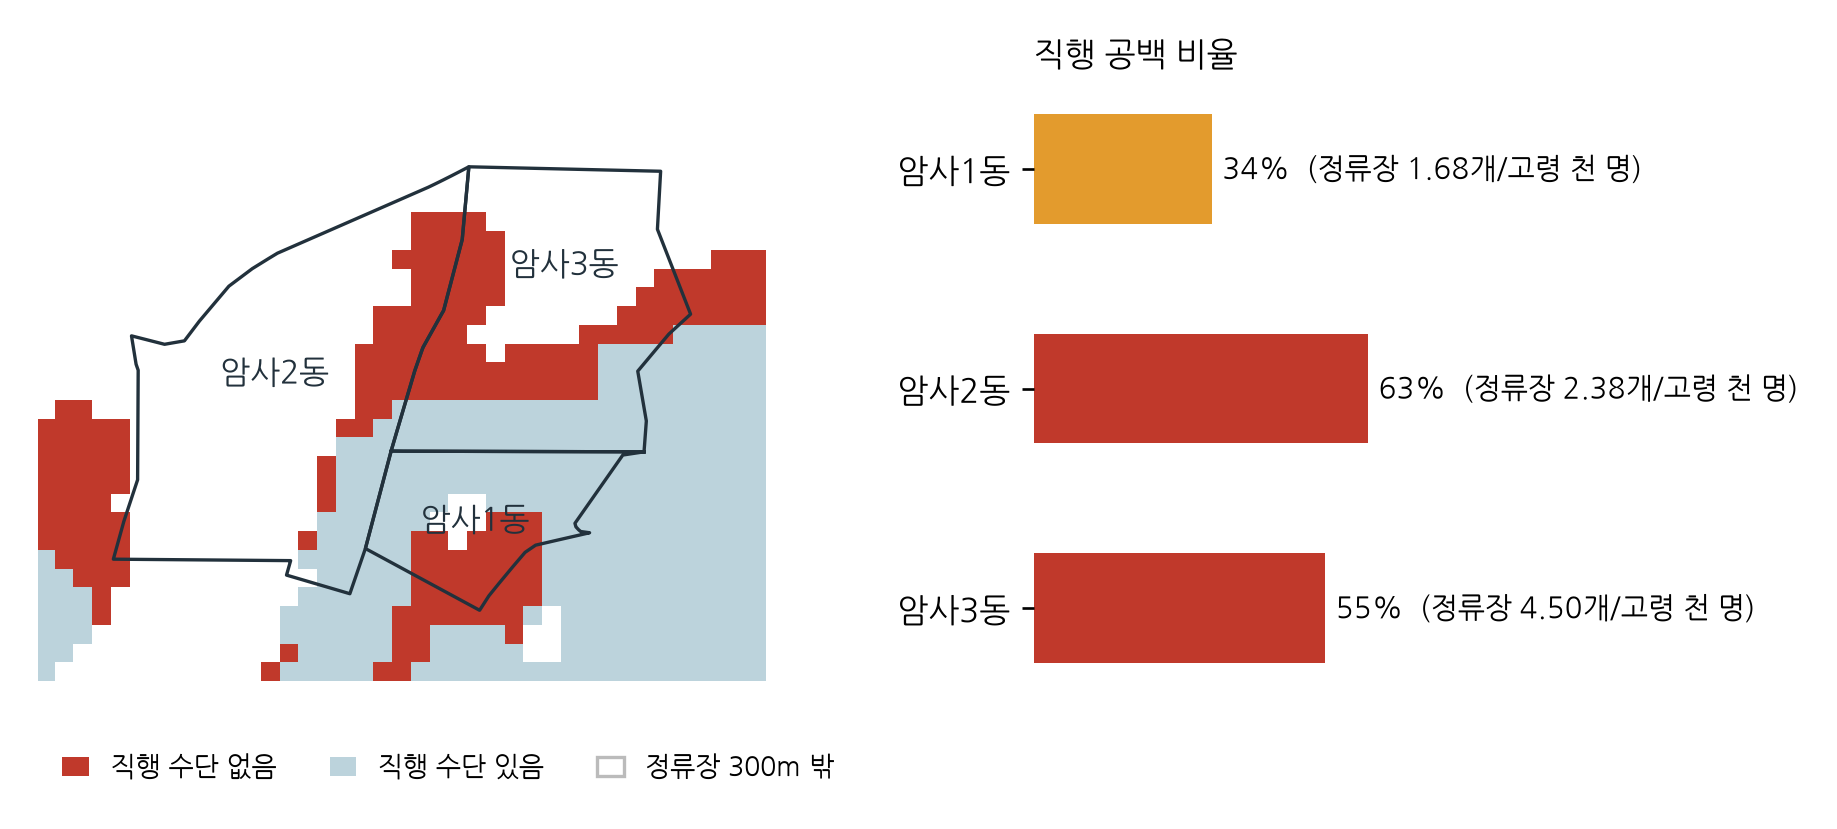
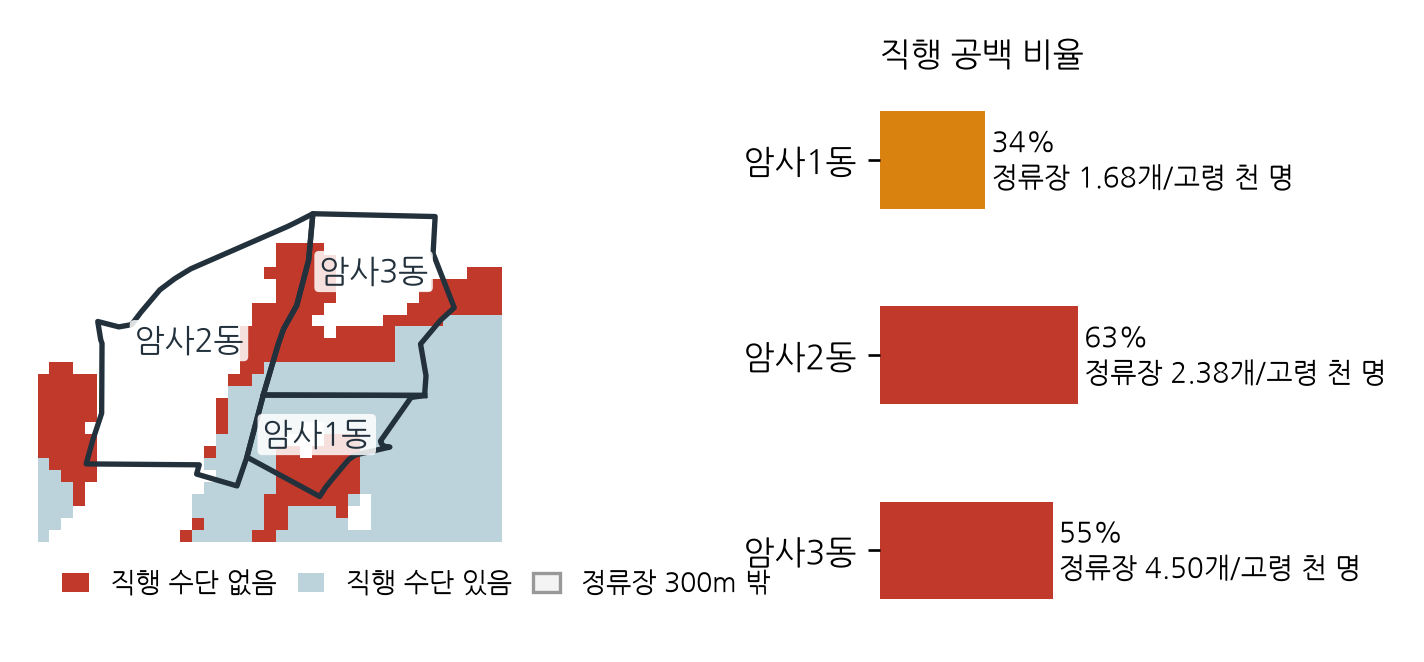
Add robustness metrics and larger figure labels
- hospital_access.py: stop spacing, core-area estimates, S-only overlap check
- access_figures.py: larger text, labels for top 10 core areas, CO2 subscript
- README: summary rows, mark the first-round Amsa case as reference

Claude-Session: https://claude.ai/code/session_016QNWvnpHx37YTs3VkJgVLz

diff --git a/access_figures.py b/access_figures.py
@@ -11,7 +11,7 @@ from pyproj import Transformer
 from figures import setup, save, RES
 from analyze import boundaries
 
-GAP, OK, SUP, LINE, INK = '#c0392b', '#bcd3dc', '#e39b2d', '#8a9aa6', '#22313c'
+GAP, OK, SUP, LINE, INK = '#c0392b', '#bcd3dc', '#d9820f', '#8a9aa6', '#22313c'
 
 
 def outline(ax, geom, **kw):
@@ -22,46 +22,50 @@ def outline(ax, geom, **kw):
 
 
 def seoul_map(d, cells, parsed, polys):
-    fig, ax = plt.subplots(figsize=(7.4, 5.9))
+    fig, ax = plt.subplots(figsize=(5.3, 4.4))
     sv = cells[cells.served]
     ok, gap = sv[sv.near_onestep_base], sv[~sv.near_onestep_base]
-    ax.scatter(ok.x_m / 1000, ok.y_m / 1000, s=.55, c=OK, marker='s', linewidths=0)
-    ax.scatter(gap.x_m / 1000, gap.y_m / 1000, s=.55, c=GAP, marker='s', linewidths=0)
+    ax.scatter(ok.x_m / 1000, ok.y_m / 1000, s=.32, c=OK, marker='s', linewidths=0)
+    ax.scatter(gap.x_m / 1000, gap.y_m / 1000, s=.32, c=GAP, marker='s', linewidths=0)
     for i, p in enumerate(polys):
         if d.gap_core.iloc[i]:
-            outline(ax, p, c='#5a1209', lw=1.1)
+            outline(ax, p, c='#5a1209', lw=1.2)
         elif d.core_candidate.iloc[i]:
-            outline(ax, p, c=SUP, lw=1.3)
+            outline(ax, p, c=SUP, lw=1.7)
     tr = Transformer.from_crs(4326, 5179, always_xy=True).transform
     for f in parsed['SIGUNGU']['features']:
         outline(ax, transform(tr, shape(f['geometry'])), c=LINE, lw=.45)
-    top = d[d.gap_core].sort_values('est_elderly_in_gap', ascending=False).head(6)
-    off = {'평창동': (-3, 3), '수궁동': (-4, -2.5), '망원1동': (0.5, 5.5), '화곡본동': (-3.5, -6), '내곡동': (3, -3), '인헌동': (2, -3.5)}
+    top = d[d.gap_core].sort_values('est_elderly_in_gap', ascending=False).head(10)
+    off = {'평창동': (-2, 4), '수궁동': (-4.5, -3), '망원1동': (-1, 5.5), '화곡본동': (-5, 4.5), '내곡동': (3, -3.5), '인헌동': (-1.5, -5.5), '문정2동': (4, -3.5), '위례동': (5, -1.5), '개봉3동': (-4, -5.5), '시흥4동': (1.5, -6)}
     for _, r in top.iterrows():
         c = polys[int(r.name)].representative_point(); dx, dy = off.get(r.dong, (3, 2))
-        ax.annotate(f'{r.gu} {r.dong}', (c.x / 1000, c.y / 1000), xytext=(c.x / 1000 + dx, c.y / 1000 + dy), fontsize=8, color='#7d1f15',
+        ax.annotate(r.dong, (c.x / 1000, c.y / 1000), xytext=(c.x / 1000 + dx, c.y / 1000 + dy), fontsize=8.5, color='#7d1f15', weight='bold',
                     ha='center', arrowprops={'arrowstyle': '-', 'color': '#a8584e', 'lw': .6})
     ax.autoscale(); ax.set_aspect('equal'); ax.axis('off')
     ax.legend(handles=[Patch(facecolor=GAP, label='가까운 종합병원으로 가는 직행 수단이 없는 지역'),
                        Patch(facecolor=OK, label='직행 수단이 있는 지역'),
                        Line2D([], [], color='#5a1209', lw=1.2, label=f'의료 직행 사각지대 핵심 {int(d.gap_core.sum())}개 동'),
                        Line2D([], [], color=SUP, lw=1.4, label=f'정류장 공급량 기준 후보 {int(d.core_candidate.sum())}개 동')],
-              loc='upper left', frameon=False, fontsize=8.6)
+              loc='upper left', bbox_to_anchor=(-0.02, 1.04), frameon=False, fontsize=8.4)
     fig.tight_layout(); save(fig, '07_access_gap_map.png')
 
 
 def supply_vs_access(d):
-    fig, ax = plt.subplots(figsize=(7.4, 3.5))
+    fig, ax = plt.subplots(figsize=(5.6, 2.9))
     o = ~(d.gap_core | d.core_candidate)
     ax.scatter(d.stops_per_1000[o], d.gap_share[o] * 100, s=12, c='#aab6c0', alpha=.6, linewidths=0, label='그 외 행정동')
     ax.scatter(d.stops_per_1000[d.core_candidate], d.gap_share[d.core_candidate] * 100, s=40, c=SUP, edgecolors='white', linewidths=.6,
                label=f'정류장 공급량 기준 후보({int(d.core_candidate.sum())})', zorder=3)
     ax.scatter(d.stops_per_1000[d.gap_core], d.gap_share[d.gap_core] * 100, s=44, c=GAP, edgecolors='white', linewidths=.6,
                label=f'의료 직행 사각지대 핵심({int(d.gap_core.sum())})', zorder=4)
-    ax.axhline(50, c='#5d6d7a', ls='--', lw=.9)
+    ax.axhline(50, c='#5d6d7a', ls='--', lw=.9); ax.text(0.68, 51.5, '직행 공백 50%', fontsize=8.5, color='#4d5b66')
+    for dn, dx, dy in [('암사1동', 14, -16), ('암사2동', -40, 6)]:
+        rr = d[(d.gu == '강동구') & (d.dong == dn)].iloc[0]
+        ax.annotate(dn, (rr.stops_per_1000, rr.gap_share * 100), xytext=(dx, dy), textcoords='offset points', fontsize=8.5, color=INK, arrowprops={'arrowstyle': '-', 'lw': .6, 'color': '#777'})
     ax.set_xscale('log'); ax.set_xticks([1, 2, 4, 8, 16, 32, 64], labels=['1', '2', '4', '8', '16', '32', '64'])
     ax.set(xlabel='고령인구 1천 명당 버스정류장 수 (개, 로그 눈금)', ylabel='직행 공백 비율 (%)', ylim=(-3, 103))
-    ax.grid(alpha=.13); ax.legend(loc='upper right', frameon=False, fontsize=8.5)
+    ax.grid(alpha=.13); ax.legend(loc='center right', bbox_to_anchor=(1.0, 0.36), frameon=False, fontsize=8.3); ax.tick_params(labelsize=9)
+    ax.xaxis.label.set_size(9.5); ax.yaxis.label.set_size(9.5)
     fig.tight_layout(); save(fig, '08_supply_vs_access.png')
 
 
@@ -72,37 +76,38 @@ def amsa_case(d, cells, polys):
     area = unary_union([polys[i] for i in idx])
     x0, y0, x1, y1 = area.buffer(400).bounds
     c = cells[(cells.x_m.between(x0, x1)) & (cells.y_m.between(y0, y1)) & cells.served]
-    fig, (ax, bx) = plt.subplots(1, 2, figsize=(7.6, 3.3), gridspec_kw={'width_ratios': [1.15, 1]})
+    fig, (ax, bx) = plt.subplots(1, 2, figsize=(5.8, 2.8), gridspec_kw={'width_ratios': [1.1, 1]})
     for sub, col in [(c[c.near_onestep_base], OK), (c[~c.near_onestep_base], GAP)]:
         for x, y in zip(sub.x_m, sub.y_m):
             ax.add_patch(Rectangle(((x - 50) / 1000, (y - 50) / 1000), .1, .1, color=col, lw=0))
     for i, n in zip(idx, names):
-        outline(ax, polys[i], c=INK, lw=1)
-        p = polys[i].representative_point(); ax.text(p.x / 1000, p.y / 1000, n, ha='center', fontsize=9.5, weight='bold', color=INK)
+        outline(ax, polys[i], c=INK, lw=1.6)
+        p = polys[i].representative_point(); ax.text(p.x / 1000, p.y / 1000, n, ha='center', fontsize=9.5, weight='bold', color=INK, bbox={'boxstyle': 'round,pad=0.15', 'fc': 'white', 'ec': 'none', 'alpha': .85})
     ax.set_xlim(x0 / 1000, x1 / 1000); ax.set_ylim(y0 / 1000, y1 / 1000); ax.set_aspect('equal'); ax.axis('off')
     ax.legend(handles=[Patch(facecolor=GAP, label='직행 수단 없음'), Patch(facecolor=OK, label='직행 수단 있음'),
-                       Patch(facecolor='white', edgecolor='#bbbbbb', label='정류장 300m 밖')], loc='lower left',
-              bbox_to_anchor=(0, -0.2), ncol=3, frameon=False, fontsize=8, handlelength=1)
+                       Patch(facecolor='#f4f4f4', edgecolor='#999999', label='정류장 300m 밖')], loc='lower left',
+              bbox_to_anchor=(0, -0.2), ncol=3, frameon=False, fontsize=8, handlelength=1, columnspacing=.8)
     vals = [d.gap_share.iloc[i] * 100 for i in idx]; sup = [d.stops_per_1000.iloc[i] for i in idx]
     bars = bx.barh(names[::-1], vals[::-1], color=[SUP, GAP, GAP][::-1], height=.5)
     for b, v, s in zip(bars, vals[::-1], sup[::-1]):
-        bx.text(b.get_width() + 2, b.get_y() + b.get_height() / 2, f'{v:.0f}%  (정류장 {s:.2f}개/고령 천 명)', va='center', fontsize=8.6)
-    bx.set_xlim(0, 120); bx.set_xticks([]); bx.spines['left'].set_visible(False); bx.spines['bottom'].set_visible(False)
+        bx.text(b.get_width() + 2, b.get_y() + b.get_height() / 2, f'{v:.0f}%\n정류장 {s:.2f}개/고령 천 명', va='center', fontsize=8.5)
+    bx.set_xlim(0, 135); bx.set_xticks([]); bx.spines['left'].set_visible(False); bx.spines['bottom'].set_visible(False)
     bx.set_title('직행 공백 비율', fontsize=10, loc='left'); bx.tick_params(labelsize=10)
     fig.tight_layout(); save(fig, '09_amsa_case.png')
 
 
 def carbon(ev):
-    fig, ax = plt.subplots(figsize=(7.6, 3.1))
+    fig, ax = plt.subplots(figsize=(5.6, 2.7))
     x = np.linspace(0, 200, 201)
-    for lab, add, col in [('기존 노선 조정(추가 운행 0km)', 0.0, '#2f6f7e'), ('전기 마을버스 20km/일 추가', ev['ev_bus_kg_per_km'] * 20, '#4b8f4b'),
+    for lab, add, col in [('기존 노선 조정(추가 운행 없음)', 0.0, '#2f6f7e'), ('전기 마을버스 20km/일 추가', ev['ev_bus_kg_per_km'] * 20, '#4b8f4b'),
                           ('CNG 버스 20km/일 추가', ev['cng_bus_kg_per_km'] * 20, '#b5533d')]:
         ax.plot(x, (x * ev['car_kg_per_km'] - add) * 250 / 1000, c=col, lw=2, label=lab)
     for be, col in [(ev['break_even_ev20_km_day'], '#4b8f4b'), (ev['break_even_cng20_km_day'], '#b5533d')]:
-        ax.scatter([be], [0], c=col, s=26, zorder=4); ax.annotate(f'{be:.0f}km', (be, 0), xytext=(be + 3, -2.6), fontsize=9, color=col)
+        ax.scatter([be], [0], c=col, s=26, zorder=4); ax.annotate(f'{be:.0f}km', (be, 0), xytext=(be + 4, 1.0), fontsize=9.5, color=col, weight='bold')
     ax.axhline(0, c='#67717a', lw=.8)
-    ax.set(xlabel='줄어든 승용차 주행거리 (km/일, 가정)', ylabel='연간 순감축 CO2 (t, 가정)', xlim=(0, 200), ylim=(-6.5, 11))
-    ax.grid(alpha=.13); ax.legend(loc='upper left', frameon=False, fontsize=8.8); ax.tick_params(labelsize=9.5)
+    ax.set(xlabel='줄어든 승용차 주행거리 (km/일, 가정)', ylabel='연간 순감축 CO$_2$ (t, 가정)', xlim=(0, 200), ylim=(-6.5, 11))
+    ax.grid(alpha=.13); ax.legend(loc='upper left', frameon=False, fontsize=8.5); ax.tick_params(labelsize=9)
+    ax.xaxis.label.set_size(9.5); ax.yaxis.label.set_size(9.5)
     fig.tight_layout(); save(fig, '10_carbon_break_even.png')
 
 

diff --git a/hospital_access.py b/hospital_access.py
@@ -76,6 +76,19 @@ def stop_matrix(month, stops, hosp):
     return M
 
 
+def stop_spacing(month, stops):
+    """노선 내 연속 정류장 간 직선거리(m) 분포."""
+    r = pd.read_csv(RAW / f'ridership_{month}.csv', encoding='cp949', dtype=str)
+    r = r[~r['노선번호'].str.startswith('N')]
+    r['seq'] = pd.to_numeric(r['역명'].str.extract(r'\((\d+)\)$')[0], errors='coerce')
+    r = r.dropna(subset=['seq']).merge(stops[['NODE_ID', 'x_m', 'y_m']], left_on='표준버스정류장ID', right_on='NODE_ID')
+    out = []
+    for _, g in r.groupby('노선명'):
+        g = g.sort_values('seq'); ok = np.diff(g.seq.to_numpy()) == 1
+        out.extend(np.hypot(np.diff(g.x_m.to_numpy()), np.diff(g.y_m.to_numpy()))[ok])
+    return np.array(out)
+
+
 def station_matrix(rail, hosp):
     """[역, 병원] 같은 호선 역 간 최소 직선거리(km). 불가는 inf."""
     rk = cKDTree(rail[['x_m', 'y_m']].to_numpy())
@@ -199,7 +212,18 @@ def main():
         case[dong] = {k: (None if pd.isna(r[k]) else float(r[k])) for k in
                       ['elderly', 'gap_share', 'near_hosp_median', 'nearest_bus_stops_median', 'stops_per_1000', 'coverage300']}
         case[dong]['supply_candidate'] = bool(r.core_candidate)
+    stops6 = pd.read_csv(RES / 'stops_audit_202606.csv', encoding='utf-8-sig', dtype={'NODE_ID': str})
+    spacing = stop_spacing('202606', stops6[stops6.poly_id >= 0])
+    core = d[d.gap_robust == 1]
+    s_only = core[core.stops_per_1000 <= d.stops_per_1000.quantile(.25)]
     summary = {
+        'stop_spacing_median_m': float(np.median(spacing)),
+        'base_n_km_equivalent': float(np.median(spacing) * BASE_N / 1000),
+        'core_dongs': int(len(core)), 'core_elderly': int(core.elderly.sum()),
+        'core_est_elderly_in_gap': float(core.est_elderly_in_gap.sum()),
+        'core_top10_est_elderly_in_gap': float(core.sort_values('est_elderly_in_gap', ascending=False).head(10).est_elderly_in_gap.sum()),
+        'core_in_supply_S_q25_only': [f'{a} {b}' for a, b in zip(s_only.gu, s_only.dong)],
+        'core_with_elderly_q75': int((core.elderly >= d.elderly.quantile(.75)).sum()),
         'definition': {'cell_m': CELL, 'walk_stop_m': WALK_STOP, 'walk_rail_m': WALK_RAIL, 'walk_hosp_m': WALK_HOSP,
                        'hosp_stop_m': HOSP_STOP, 'hosp_rail_m': HOSP_RAIL, 'base_n': BASE_N, 'base_k': BASE_K,
                        'grid_n': N_GRID, 'grid_k': K_GRID, 'gap_share_threshold': GAP_SHARE, 'night_routes_excluded': True},
